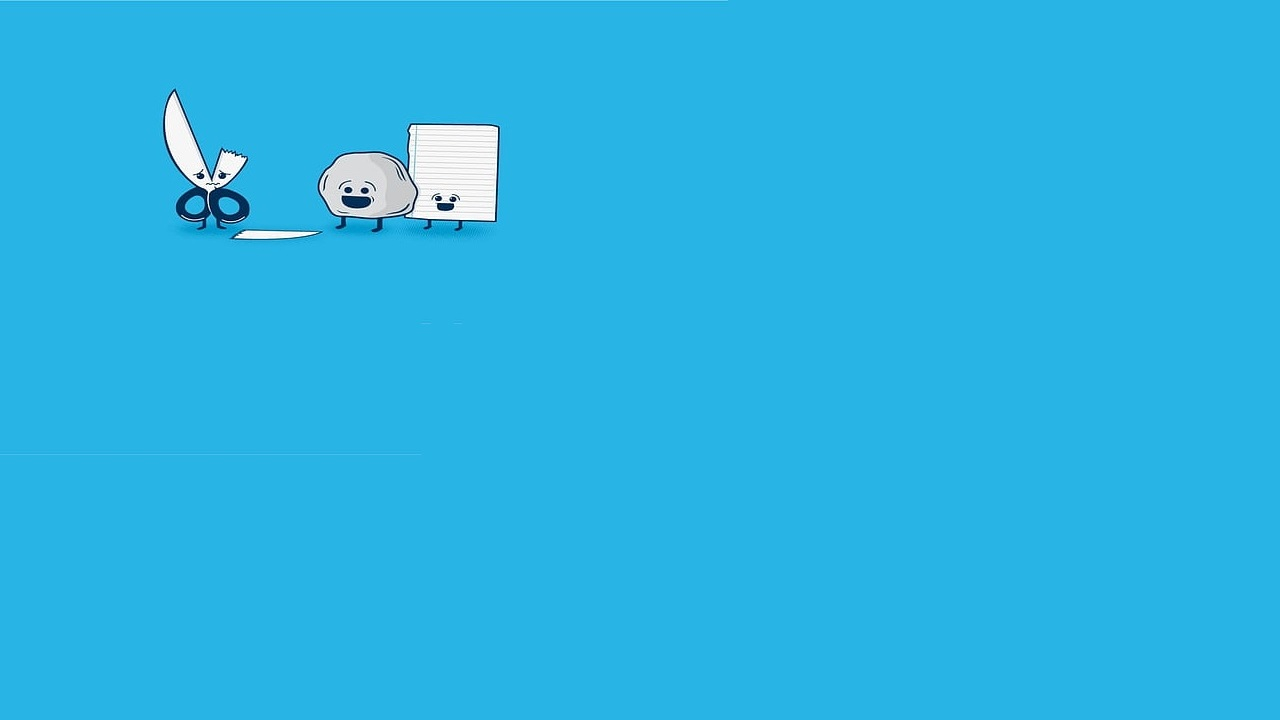
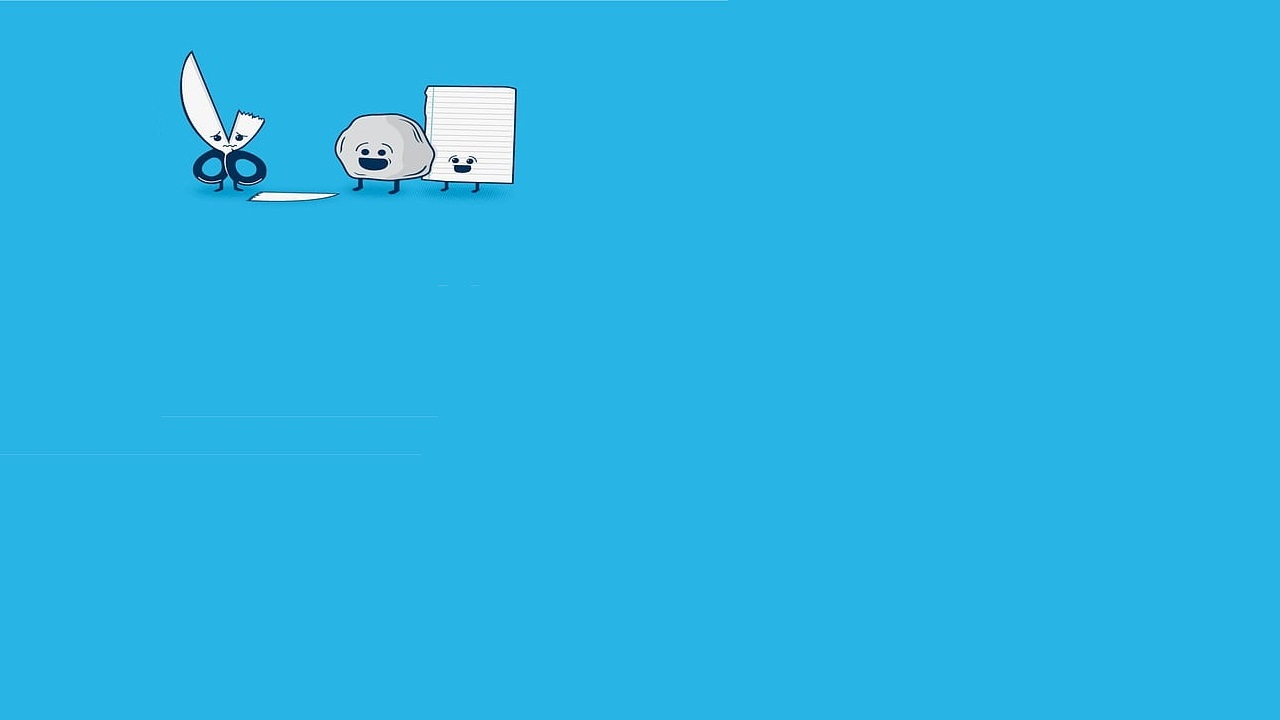
cambiostyle

Changed region(s): [[0.125, 0.0611, 0.4062, 0.3361]]

diff --git a/css/style.css b/css/style.css
@@ -1,6 +1,6 @@
 *{
     margin: 2;
-    padding: 1px;
+    /* padding: 1px; */
 
 }
 .fondo{
@@ -9,7 +9,7 @@
     background-color: #3eb4e7;
 }
 h1{
-    width: 400px;
+    width: 340px;
     font-size: 40px;
     font-family: 'Franklin Gothic Medium', 'Arial Narrow', Arial, sans-serif;
     font-style: oblique;
@@ -17,9 +17,9 @@ h1{
 }
 table{
     font-family: "Lucida Sans Unicode", "Lucida Grande", Sans-Serif;
-    width: 400px;
-    height: 87%;
-    font-size: 9px;
+    width: 40px;
+    /* height: 8%; */
+    font-size: 19px;
 }
 input{
     font-family: "Lucida Sans Unicode", "Lucida Grande", Sans-Serif;
@@ -27,7 +27,9 @@ input{
     width: 200px;
     height: 30px;
     font-style: italic;
-    font-size: 18px;
+    font-size: 17px;
+    border-radius: 5%;
+    
 
     
 }

diff --git a/index.html b/index.html
@@ -13,7 +13,7 @@
     <center>
         <br>
         <h1>Juego Piedra, Papel o Tijera</h1>
-        <table style="font-size: x-large;">
+        <table >
             <tr>
                 <td>
                     <span>
